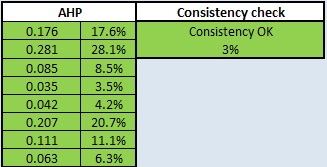
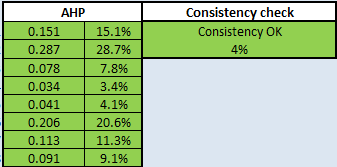
AHP completed, design options described, decision matrix and conclusion remaining

diff --git a/docs/WP2/WP2.1_Trade-Off-Report.md b/docs/WP2/WP2.1_Trade-Off-Report.md
@@ -47,18 +47,22 @@ header-includes:
 
 # 1. Introduction
 ## 1.1. Scope
-This document presents the Gimbal Mount Assembly (GMA) Trade-Off Report. The objective of this file is to assist with alternative design solutions taking into account technical, programmatic constraints. 
+This document presents the Gimbal Mount Assembly (GMA) Trade-Off Report. The objective of this file is to support the concept design decision among alternative solutions taking into account technical and programmatic constraints. 
 
 ##  1.2. Reference
-[RD1] Gimbal Mount Assembly - Requirement Consolidation - Version 0
+[RD1] A.Lukanowski - Gimbal Mount Assembly - Requirement Consolidation / Version 0 - Luebeck 2026
 
-[RD2] Gimbal Mount Assembly - Preliminary Verification Control Document - Version 0
+[RD2] A.Lukanowski - Gimbal Mount Assembly - Preliminary Verification Control Document / Version 0 - Luebeck 2026
 
 [RD3] ECSS-E-ST-10C Rev.1 - System engineering general requirements
 
 [RD4] T.L. Saaty - Decision Making for Leaders: The Analytic Hierarchy Process for Decision in a Complex World - Pittsburgh 1990
 
-[RD5] D. Huzel, D. Huang - Modern Engineering For Design Of Liquid-Propellant Rocket Engines - Washington 1992
+[RD5] D.Huzel, D.Huang - Modern Engineering For Design Of Liquid-Propellant Rocket Engines - Washington 1992
+
+[RD6] A.Lukanowski - 20260310_Luka_GMA_Tradeoff_AHP / Excel file - Luebeck 2026
+
+[RD7] P.Vinet - NYX Moon - Huracan Development Logic - TEC-FRA-DOC-2024-01004 - Bordeaux 2024
 
 \clearpage
 
@@ -66,97 +70,91 @@ This document presents the Gimbal Mount Assembly (GMA) Trade-Off Report. The obj
 
 ## 2.1. Philosophy and criteria
 
-The trade-off philosophy for this specific use case is to have a design that is safe, simple and achievable within the time frame. The criteria chosen for the trade study cover programmatic (how and when?), functional (what?), and feasibility (if?) aspects. The objective here is not to provide an elaborated design, that ignores deadlines, procurement -, manufacturing challanges etc.
+The trade-off philosophy for this specific use case is to have a design that is *safe, simple and achievable* within the time frame. This philosophy is given by the low TRL of the GMA in the current project state (here: TRL 1/2) and programmatic constraints (e.g. delivery of a functional model before DM2). The objective is to deliver a functional model on schedule by keeping it as simple as possible and only as complex as necessary considering technical feasibility constraints.
 
 **Program criteria**  
-  Programmatic aspects are associated to "The How and When"-question, which shall address the lifecycle, constraints and hence the success of the project. For this project, the focus of this criteria is mainly the schedule (timeline, lead time), execution (Supply Chain / manufacturing) and testability. 
+  Programmatic aspects are associated to "The How and When"-question, which shall address the lifecycle, constraints and hence the success of the project. For this project, the focus of this criteria is mainly the schedule (timeline, lead time), execution (supply chain / manufacturing) and testability. 
 
 **Functional criteria**  
-  The functional criteria refer to the question "What?", which is linked to the control authority needs. Those key performance requirements [RD1] are the gimbal angle, angular speed and precision. The mass requirement is directly associated to the overall mass budget, while the volume envelops the geometrical constraint to fullfill the key requirements (e.g. clearance vs. gimbal angle) and the integration. 
+  The functional criteria refer to the question "What?", which is linked to the control authority needs. Those key performance requirements [RD1] are the gimbal angle, angular speed and precision. In addition, the mass requirement is directly associated to the overall mass budget, while the volume envelops the geometrical constraint to fullfill the key requirements (e.g. clearance vs. gimbal angle) and the integration. 
 
 **Feasibility criteria**  
-  Feasability aspects refer to technical risks reduction, related to its Technology Readyness Level (TRL), the design complexity (part count, tolerance sensitivity etc.) and its load capability (thermal and mechanical).
-
+  The "If"-question is covered by feasability aspects, which refer to technical risks reduction, related to its Technology Readyness Level (TRL), the design complexity (part count, tolerance sensitivity etc.) and its load capability (thermal and mechanical).
   
 ## 2.2. Methodology
 
-The trade-off is performed by using the methodology of the Analytic Hierarchy Process (AHP) [RD4], combined with an subsequent decision matrix. The methodology of AHP
-helps to evaluate multiple criteria by systematically breaking problems into a hierarchy of simpler elements. It covers
-the following steps:
+The trade-off is performed by using the methodology of the Analytic Hierarchy Process (AHP) [RD4], combined with an subsequent decision matrix. The methodology of AHP helps to evaluate criteria by breaking problems into a hierarchy of simpler elements. It covers the following steps:
 
 1. Structuring the problem into a hierarchy with objectives, criteria and sub-criteria
 2. Pairwise comparison and weighting of the criteria.
 3. Ranking alternatives based on the overall scores to aid in selecting the best option
 
-For this trade study, the weights derived from the AHP will be taken as an input for a decision matrix. In this decision matrix, several design options will be weighted against each other based on the criteria coming from the AHP. The outcome shall be a suggestion for a the final concept design. 
+For this trade study, the weights derived from the AHP are taken as input for the decision matrix. In this decision matrix, several design options will be weighted against each other based on the criteria coming from the AHP. The outcome shall be a suggestion for a final concept design. 
 
-### 2.2.1. Analytic Hierarchy Process (AHP)
+## 2.3. Analytic Hierarchy Process (AHP)
 
-The fundamental scale values of the AHP utilized for the pairwise comparison are shown below.
+For this study, an AHP-template was utilized that is annexed in the delivery package of this document [RD6]. The fundamental scale values of the AHP are shown in the figure below. 
 
-|**Importance**|**Scale value**|
-|---|---|
-|Extremely less important|1/9|
-||1/8|
-|Very strongly less important|1/7|
-||1/6|
-|Strongly less important|1/5|
-||1/4|
-|Moderately less important|1/3|
-||1/2|
-|Equal importance|1|
-||2|
-|Moderately more important|3|
-||4|
-|Strongly more important|5|
-||6|
-|Very strongly more important|7|
-||8|
-|Extremely more important|9|
+![AHP scale [RD6]](figures/20260311_Luka_Trade-Off_AHP_Scale.png){width=30%}
 
+Considering the trade-off philosophy *"safe, simple, achievable"*, the scaling values are assigned to 8 criteria in the AHP as shown in the subsequent figure.
 
-Considering the trade-off philosophy *"safe, simple, achievable"*, the scaling values are assigned to 8 criteria in the AHP as shown in the the figure below.
+![Pairwise Comparison Matrix [RD6]](figures/20260311_Luka_Trade-Off_AHP_Pairwise Comparison Matrix.png)
 
-![Pairwise Comparison Matrix](figures/20260311_Luka_Trade-Off_AHP_Pairwise Comparison Matrix.png)
+The computed plausibility of the assignment is given by a consistency of 4 % (<10 % for successful consistency). The resulting rankings of the criteria are:
 
-With an consistency check of 3% (sucessfull consistency <10%), the final AHP and ranking of the criteria is as follows:
+The AHP weights and rankings are shown in the table below. 
 
 |**Criteria**|**AHP**|**Ranking**|
-|---|---|
-|PROGRAMMATIC|---|
-|Timeline & Excution|17.6 %|3|
-|Testability|28.1 %|1|
-|FUNCTIONAL|---|---|
-|Angle, speed, precision|8.5 %|5|
-|Mass|3.5 %|8|
-|Geometry / Volume|4.2 %|7|
-|FEASIBILITY|---|
-|TRL|20.7 %|2|
-|Complexity|11.1 %|4|
-|Load capability|6.3 %|6|
-
-The final ranking of the main criteria are summarized below. As a result it is obvious that the project is driven by risk and schedule related aspects, followed by engineering feasibility and then functional criteria.
-
-|**Criteria**|**AHP**|**Ranking**|
-|---|---|
-|FEASIBILITY|38.1 %|
-|PROGRAMMATIC|45.7 %|
-|FUNCTIONAL|16.2 %|
-
-
-### 2.2.2. Design options
-Typical designs for gimbal mechanisms [RD5] are
-
-|**Ring-type **|**Cross-type**|**Spherical-type**|
 |---|---|---|
-|![](figures/20260311_Luka_Trade-Off_Ring_type gimbal.png)|![](figures/20260311_Luka_Trade-Off_Cross-type gimbal.png)|![](figures/20260311_Luka_Trade-Off_Spherical-type gimbal.png)|
+|Timeline & Execution|15.1 %|3|
+|Testability|28.7 %|1|
+|**PROGRAMMATIC total**|**43.8 %**|**1**|
+||||
+|Angle, speed, precision|7.8 %|6|
+|Mass|3.4 %|8|---|
+|Geometry / Volume|4.1 %|7|
+|**FUNCTIONALITY total**|**15.2 %**|**3**|
+||||
+|TRL|20.6 %|2||3|
+|Complexity|11.3 %|4|
+|Load capability|9.1 %|5|
+|**FEASIBILITY total**|**41 %**|**2**|
+: Criteria, AHP and Ranking
 
+With a total weight of 43.8 %, programmatic criteria represent the most influential category. In particular, the need for testability accounts for 28.7 % of the overall decision model and therefore constitutes the single most dominant criterion.
 
+The second most influential factor is the TRL, which acts as the primary feasibility driver with a weight of 20.6 % (Rank 2). In contrast, functional performance represents a secondary optimization layer. Although its overall contribution (15.2 %) is comparatively small, it cannot be fully neglected in the decision process.
 
+The weighting indicates that the development strategy clearly prioritizes risk reduction through verification and validation approaches. Consequently, complex or low-TRL but innovative concepts will only remain competitive if they provide significant advantages in other areas and are supported by a strong analytical justification.
 
-### 2.2.3. Decision matrix
+The results further suggest that heavier solutions with a larger geometrical envelope or non-optimal performance margins may still be selected, provided that they are easily testable, exhibit an acceptable maturity level (minimum TRL 4), and can be delivered within the required development timeline.
 
-### 2.2.4. Conclusion and final concept
+Regarding complexity (11.3 %, Rank 4), the results indicate that more complex designs are acceptable as long as they maintain sufficient maturity and remain compatible with feasible verification approaches.
+
+Overall, the weighting generated by the AHP analysis aligns well with the philosophy intentions mentioned above, emphasizing programmatic reliability and technological maturity over purely performance-driven optimization.
+
+## 2.4. Design options
+Several methods exist for Thrust Vector Control Systems (TVC) of a vehicle. Some examples are auxiliary jets, secondary injection or a gimbaled engine [RD5]. The focus in this study is the gimbaled engine option as it is the most common used one. It consists of a gimbal mechanism, that provides the rotational degree of freedom in two perpendicular axes (pitch and yaw) and two actuators, which power the engine´s movement. Three main GMA options are described briefly by their geometrical type.
+
+**Ring-type**  
+A classical Ring-type GMA design is shown below. It typically consists of a lower support structure that is typically attached on the top of the Injection Head (IH). A gimbal ring interfaces this lower structure with an upper structure, that is connected with the thrust frame of the vehicle. The rotational degree of freedom is realized by four bearings, which are clocked in a 90° arrangement. This design is widely used in sovjet engines, where the propellant-duct passes through the core (vertical) axis of the gimbal respectively engine.  
+
+![Ring-type GMA [RD5]](figures/20260311_Luka_Trade-Off_Ring_type gimbal.png){width=37%}
+
+**Cross-type**  
+The ring-type GMA described above is related to the cross-type design. The main difference is the compactness and stiffness benefits of the cross-type as it features no capability to pass through a propellant-duct. The bearings inner races are supported by an monolithc cross-shaped bolt unit (also clocked by 90°). The outer races of the bearings are connected to an lower and upper retainer or housing in analogy to the lower and upper support of the ring-type GMA. The figure below illustrates the cross-type GMA exemplarily as it was developed for the VINCI upper stage engine. 
+
+![Cross-type GMA developed for VINCI](figures/20260311_Luka_Trade-Off_Cross-type gimbal.png){width=37%}
+
+**Spherical-type**  
+The spherical-type of GMA provides the highest load capability combined with a compact design. It consists of a lower / upper flange, that is connected to the engine / vehicle. The gimbal mechanism features a ball-and socket joint with convex and concave spherical surfaces that are interfaced by an Teflon-fiber-glass composite to provide maintanance-free and low friction relative motion. The image below shows a spherical-type GMA as it was / is utilized for the RS-25 and Vulcain 2 core stage engine. 
+
+![Spherical-type GMA [RD5]](figures/20260311_Luka_Trade-Off_Spherical-type gimbal 2.png){width=60%}
+
+## 2.5. Decision matrix
+
+## 2.6. Conclusion and final concept
 Three different concepts exist in rocketry for gimbal mechanisms:
 - Ring type
 - Spherical type
@@ -171,6 +169,8 @@ The acronyms used in this document are listed below.
 | **Acronym**  | **Definition**   |
 |---|---|
 |AHP|Analytic Hierarchy Process|
-|IH|Injection Head flange|
+|DM2|Development Model 2|
 |GMA|Gimbal Mount Assembly|
-
+|IH|Injection Head flange|
+|TRL|Technology Readiness Level|
+|TVC|Thrust Vector Control|